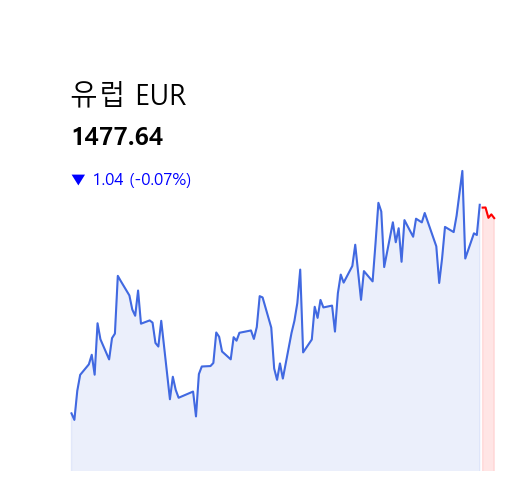
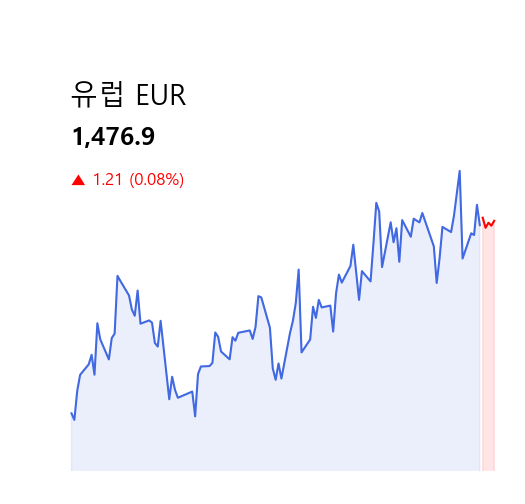
Update ER-graph

diff --git a/final_pjt_back/exchangerate/views.py b/final_pjt_back/exchangerate/views.py
@@ -148,7 +148,7 @@ def ER_graph(request):
         diff = abs(final_1 - final_2)
 
         plt.text(70, 400, countries[c], fontsize=20, transform=None)
-        plt.text(70, 360, final_1, fontweight='bold', fontsize=18, transform=None)
+        plt.text(70, 360, "{:,}".format(final_1), fontweight='bold', fontsize=18, transform=None)
 
         if final_1 > final_2:
                 plt.text(70, 320, '▲ '+ str(round(diff,2))+ ' ('+ str(round(diff/final_1*100,2))+'%)', fontsize=12, transform=None, color='red')
@@ -225,11 +225,11 @@ def ER_graph_predict(request):
 
 
         final_1 = round(forecast.iloc[-1],2)
-        final_2 = round(forecast.iloc[-2],2)
+        final_2 = round(dfwon['DATA_VALUE'].iloc[-1],2)
         diff = abs(final_1 - final_2)
 
         plt.text(70, 400, countries[c], fontsize=20, transform=None)
-        plt.text(70, 360, final_1, fontweight='bold', fontsize=18, transform=None)
+        plt.text(70, 360, "{:,}".format(final_1), fontweight='bold', fontsize=18, transform=None)
 
         if final_1 > final_2:
                 plt.text(70, 320, '▲ '+ str(round(diff,2))+ ' ('+ str(round(diff/final_1*100,2))+'%)', fontsize=12, transform=None, color='red')

diff --git a/final_pjt_back/profilepage/views.py b/final_pjt_back/profilepage/views.py
@@ -10,6 +10,7 @@ from django.forms.models import model_to_dict
 from itertools import groupby
 
 
+
 # Create your views here.
 @api_view(['GET'])
 @permission_classes([IsAuthenticated])
